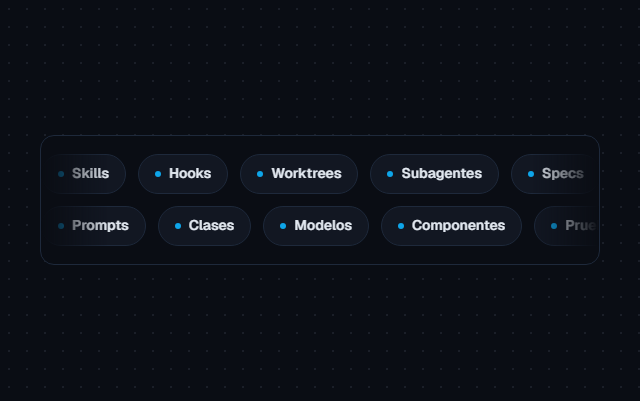
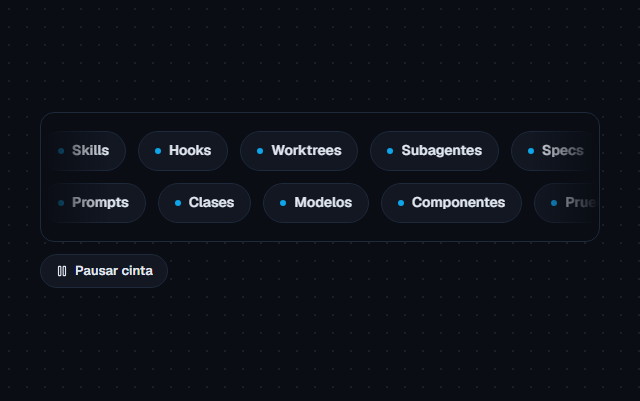
fix(efectos): aplica la revisión independiente de la 006
Avatar redondo en el esqueleto del Shimmer, botón «Pausar cinta» persistente en el Marquee (WCAG 2.2.2), nombre «Shimmer / skeleton» como en la spec y apodo con artículo. Miniaturas regeneradas.

diff --git a/src/components/effects/Marquee.tsx b/src/components/effects/Marquee.tsx
@@ -1,3 +1,6 @@
+import { useState } from 'react';
+import { Pause, Play } from 'lucide-react';
+
 const css = `
 .fx-marquee {
   border: 1px solid #1e293b;
@@ -28,8 +31,31 @@ const css = `
   animation-duration: 30s;
 }
 .fx-marquee:hover .fx-marquee-track,
-.fx-marquee:focus-within .fx-marquee-track {
+.fx-marquee:focus-within .fx-marquee-track,
+.fx-marquee.is-paused .fx-marquee-track {
   animation-play-state: paused;
+}
+/* Pausa persistente (WCAG 2.2.2): el movimiento continuo siempre se puede detener. */
+.fx-marquee-toggle {
+  display: inline-flex;
+  align-items: center;
+  gap: 6px;
+  margin-top: 12px;
+  border: 1px solid #1e293b;
+  border-radius: 999px;
+  background: #121722;
+  padding: 6px 14px;
+  font-size: 13px;
+  font-weight: 600;
+  color: #e2e8f0;
+  cursor: pointer;
+}
+.fx-marquee-toggle:hover {
+  border-color: #334155;
+}
+.fx-marquee-toggle:focus-visible {
+  outline: 2px solid #0ea5e9;
+  outline-offset: 2px;
 }
 .fx-marquee-group {
   display: flex;
@@ -89,8 +115,12 @@ function Group({ words, copy }: { words: string[]; copy?: boolean }) {
   );
 }
 
-/** Demo de «Marquee»: dos cintas de palabras en bucle infinito que se paran con el ratón encima o con el foco. */
+/**
+ * Demo de «Marquee»: dos cintas de palabras en bucle infinito que se paran con el ratón encima, con el foco
+ * o, de forma persistente, con el botón «Pausar».
+ */
 export function Demo() {
+  const [paused, setPaused] = useState(false);
   return (
     <div data-effect="marquee" className="w-full min-w-0 max-w-[560px]">
       <style>{css}</style>
@@ -98,7 +128,7 @@ export function Demo() {
         role="region"
         aria-label="Conceptos del equipo (se detiene al pasar el ratón o al enfocar)"
         tabIndex={0}
-        className="fx-marquee"
+        className={`fx-marquee${paused ? ' is-paused' : ''}`}
       >
         <div className="fx-marquee-mask">
           {ROWS.map((words, i) => (
@@ -109,6 +139,10 @@ export function Demo() {
           ))}
         </div>
       </div>
+      <button type="button" aria-pressed={paused} onClick={() => setPaused((p) => !p)} className="fx-marquee-toggle">
+        {paused ? <Play aria-hidden="true" size={14} /> : <Pause aria-hidden="true" size={14} />}
+        {paused ? 'Reanudar cinta' : 'Pausar cinta'}
+      </button>
     </div>
   );
 }

diff --git a/src/data/effects/animaciones.ts b/src/data/effects/animaciones.ts
@@ -46,10 +46,10 @@ export const EFFECT_ANIMATIONS: EffectMeta[] = [
     description:
       'Una banda de palabras o logotipos que se desliza en bucle sin fin. Va bien para enseñar clientes, tecnologías o etiquetas sin ocupar mucho espacio.',
     prompt:
-      'Crea una cinta horizontal que se desplace en bucle infinito: duplica el contenido dentro de un carril con width: max-content y anímalo de translateX(0) a translateX(-50%) en 24 s con timing lineal, para que no se note la costura. Desvanece los extremos con mask-image: linear-gradient(90deg, transparent, #000 12%, #000 88%, transparent) y pausa la animación con animation-play-state: paused en :hover y :focus-within. Marca la copia con aria-hidden="true" y, con prefers-reduced-motion: reduce, deja la cinta quieta mostrando la primera tanda.',
+      'Crea una cinta horizontal que se desplace en bucle infinito: duplica el contenido dentro de un carril con width: max-content y anímalo de translateX(0) a translateX(-50%) en 24 s con timing lineal, para que no se note la costura. Desvanece los extremos con mask-image: linear-gradient(90deg, transparent, #000 12%, #000 88%, transparent) y pausa la animación con animation-play-state: paused en :hover y :focus-within, y añade un botón «Pausar» que la detenga de forma persistente. Marca la copia con aria-hidden="true" y, con prefers-reduced-motion: reduce, deja la cinta quieta mostrando la primera tanda.',
     a11y: [
       'La copia duplicada lleva aria-hidden: los lectores de pantalla oyen cada palabra una sola vez.',
-      'La cinta se puede enfocar con Tab y se detiene con el foco o con el ratón encima.',
+      'La cinta se puede enfocar con Tab y se detiene con el foco o con el ratón encima, y el botón «Pausar cinta» (aria-pressed) la para de forma persistente.',
       'Con movimiento reducido no se mueve: queda fija mostrando la primera tanda.',
     ],
   },
@@ -57,7 +57,7 @@ export const EFFECT_ANIMATIONS: EffectMeta[] = [
     id: 'shimmer',
     kind: 'efecto',
     file: 'Shimmer',
-    name: 'Shimmer',
+    name: 'Shimmer / skeleton',
     category: 'Animaciones',
     nickname: 'el brillo de carga',
     description:

diff --git a/src/components/effects/Shimmer.tsx b/src/components/effects/Shimmer.tsx
@@ -30,6 +30,10 @@ const css = `
   background-position: 100% 0;
   animation: fx-shimmer-sweep 1.6s linear infinite;
 }
+/* El avatar es redondo: va en el CSS propio porque este <style> pisa a las utilidades de Tailwind. */
+.fx-shimmer-bone.is-round {
+  border-radius: 50%;
+}
 @keyframes fx-shimmer-sweep {
   from { background-position: 100% 0; }
   to { background-position: 0% 0; }
@@ -46,7 +50,7 @@ function SkeletonCard() {
   return (
     <div className="fx-shimmer-card" aria-hidden="true">
       <div className="flex items-center gap-3">
-        <div className="fx-shimmer-bone h-10 w-10 shrink-0 rounded-full" />
+        <div className="fx-shimmer-bone is-round h-10 w-10 shrink-0" />
         <div className="flex flex-1 flex-col gap-2">
           <div className="fx-shimmer-bone h-3 w-3/5" />
           <div className="fx-shimmer-bone h-3 w-2/5" />

diff --git a/src/data/effects/estilos.ts b/src/data/effects/estilos.ts
@@ -93,7 +93,7 @@ export const EFFECT_STYLES: EffectMeta[] = [
     file: 'DarkPremium',
     name: 'Dark mode premium',
     category: 'Estilos',
-    nickname: 'oscuro y elegante',
+    nickname: 'el estilo oscuro y elegante',
     description:
       'Modo oscuro sobrio con superficies casi negras en varios niveles, bordes finos y tipografía ligera. Es el aspecto típico de paneles y productos de gama alta.',
     prompt:
